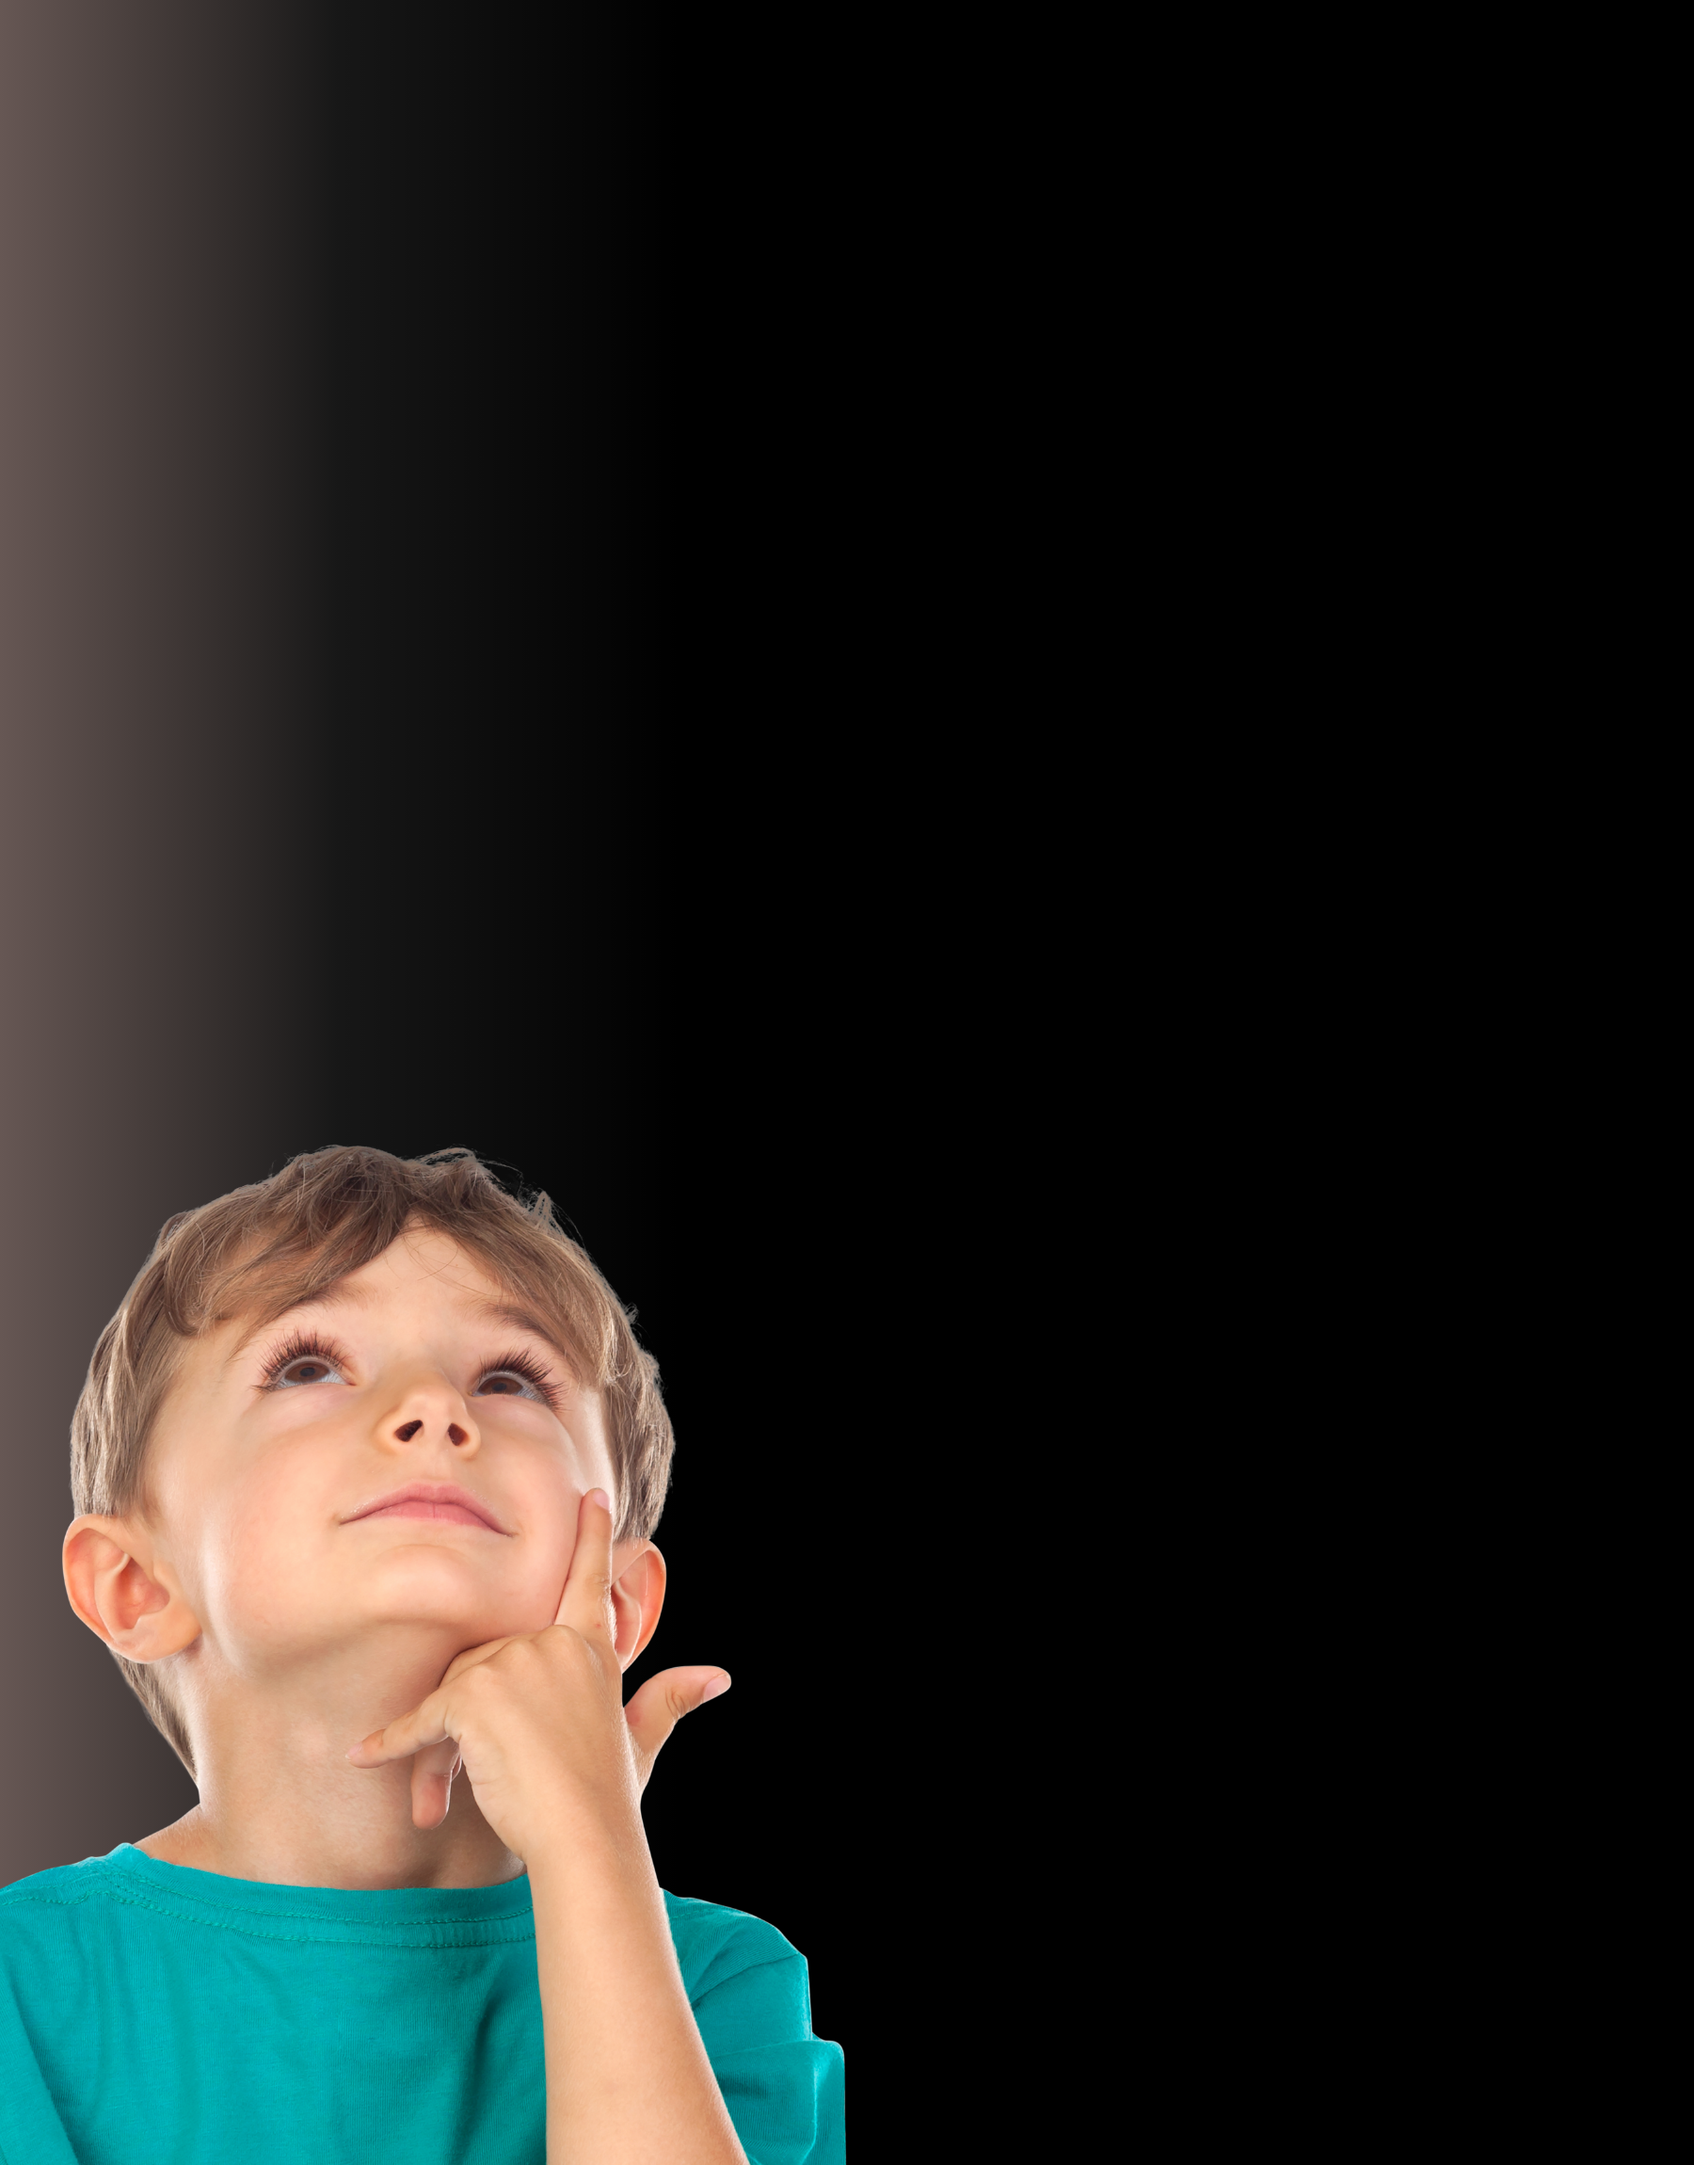
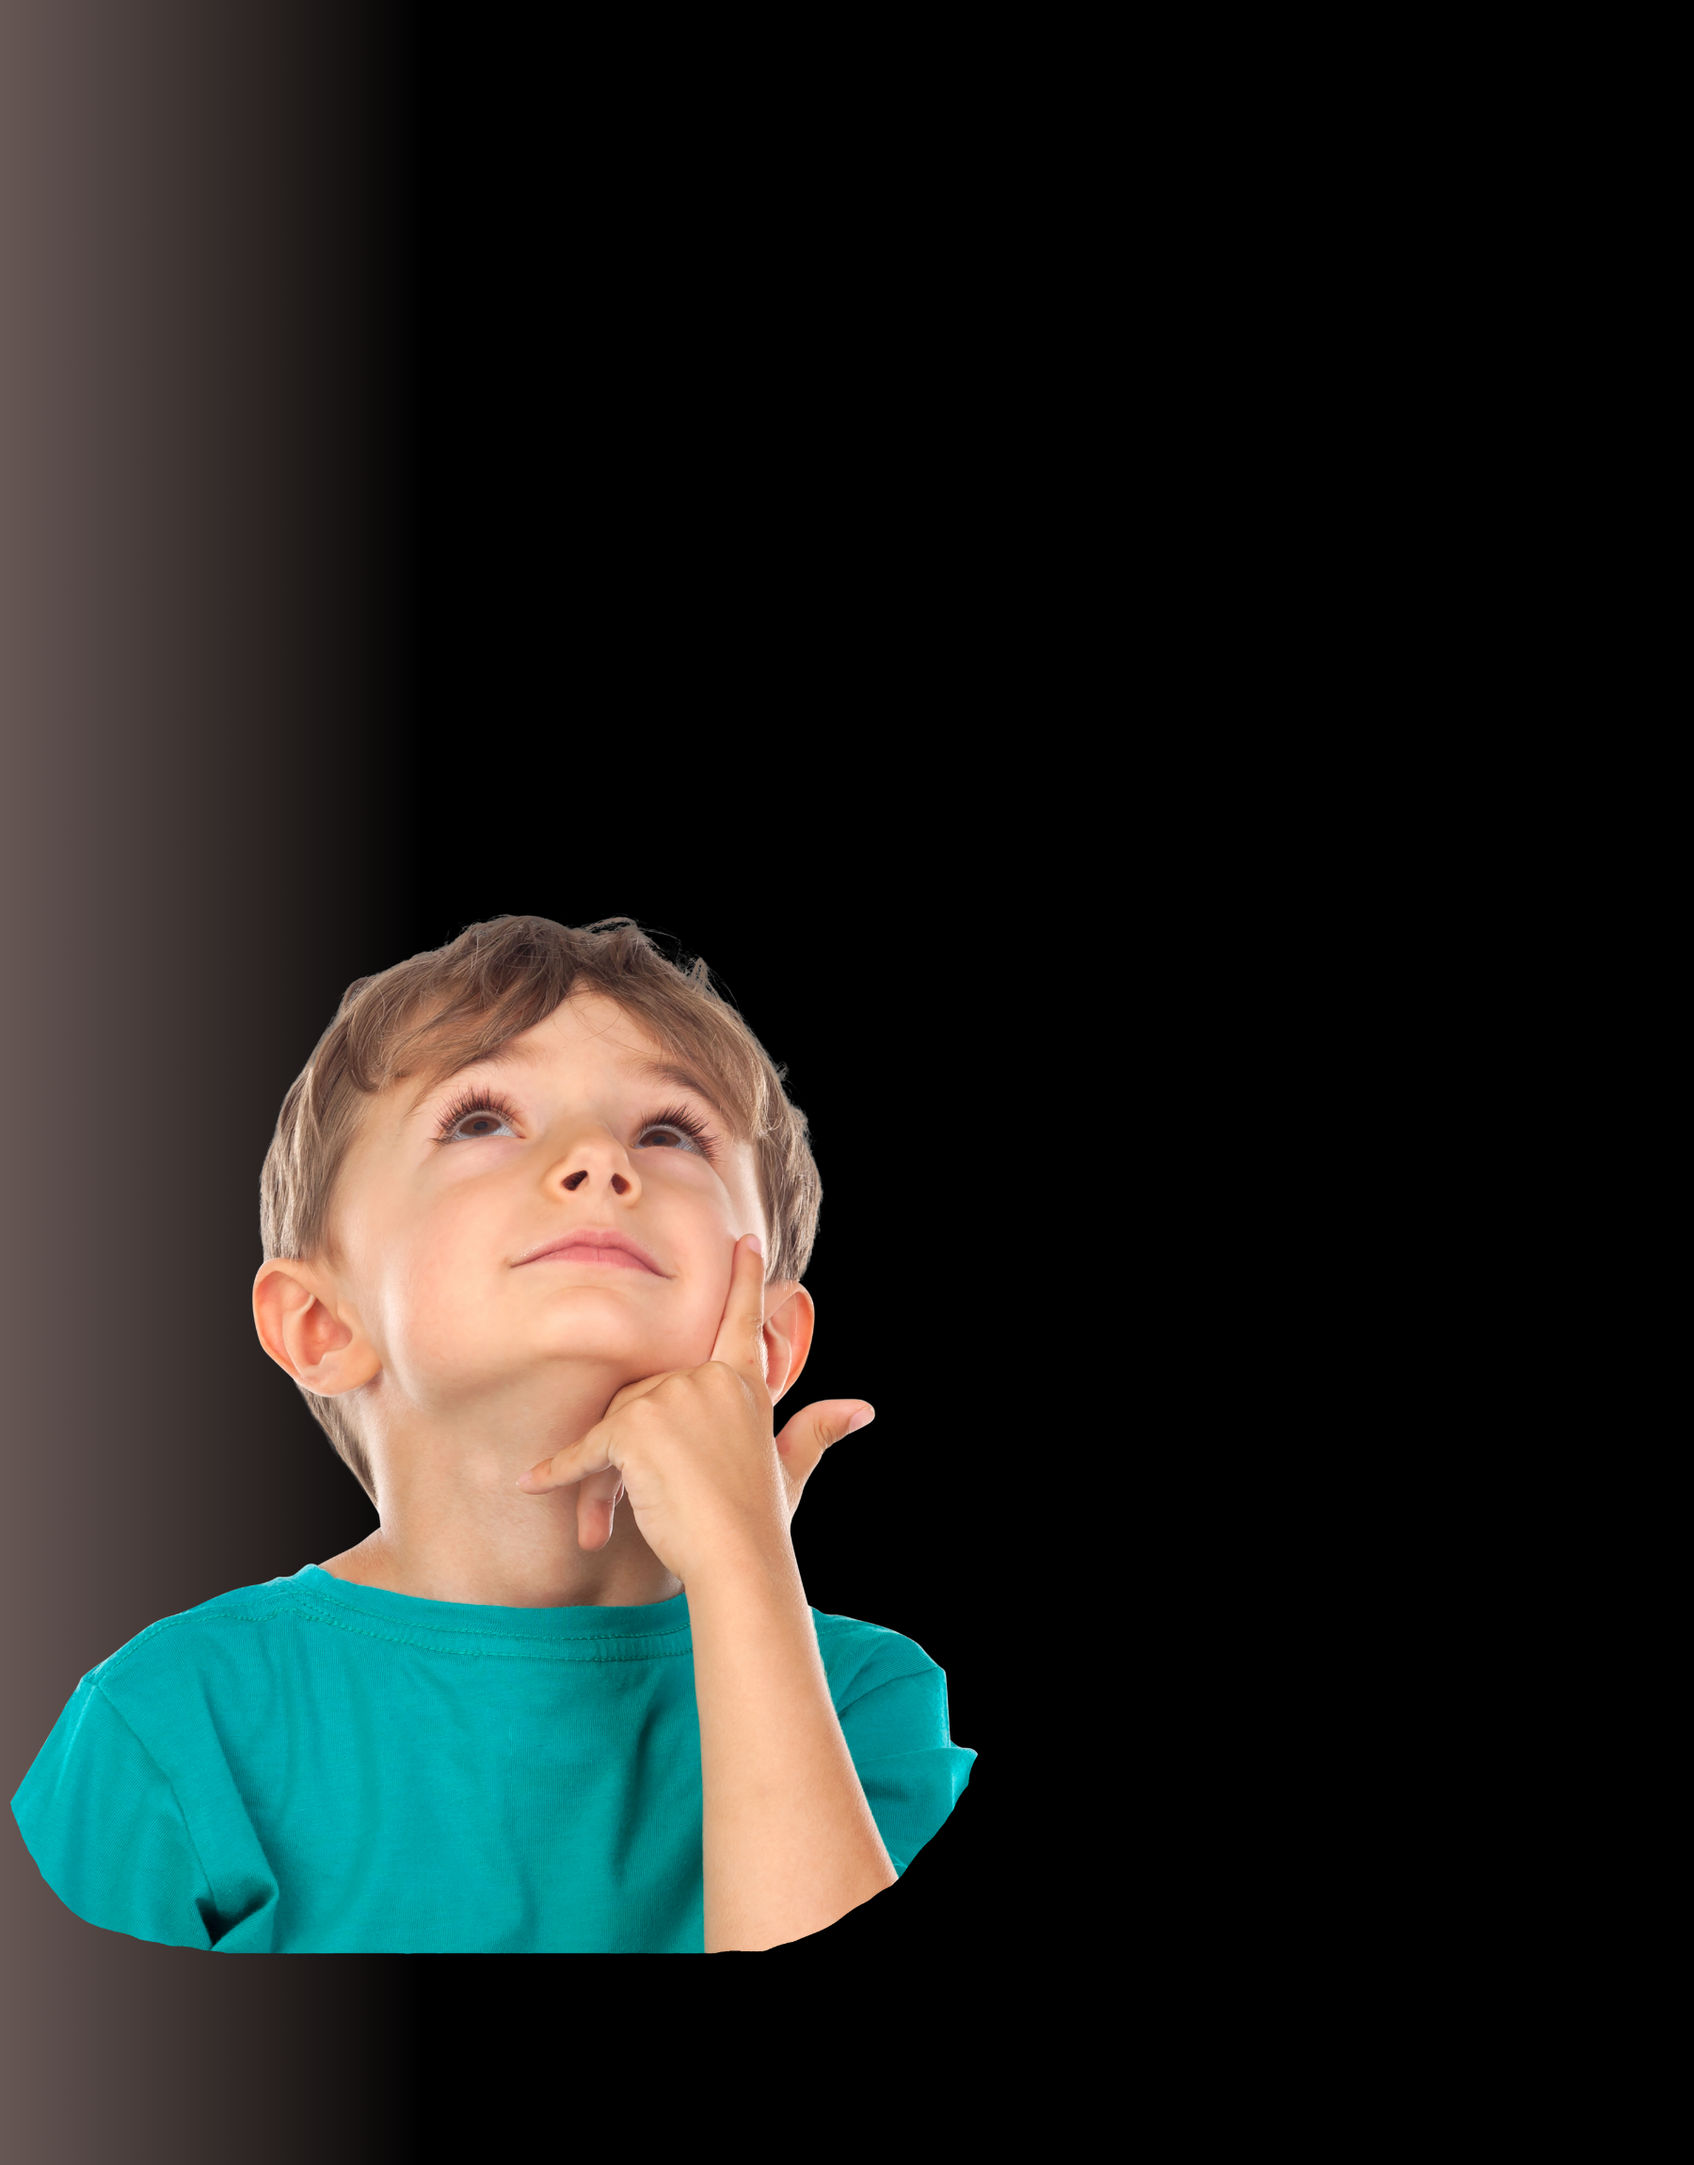
Mobile Optimization

Changed region(s): [[0.0, 0.4013, 0.5911, 1.0]]

diff --git a/Web/main.js b/Web/main.js
@@ -939,13 +939,13 @@ MainContainers:{
         height:{'Mobile':'20%','Pc':'30%'},
         zIndex:40,
         display:'flex',
-        top:{'Mobile':'42%','Pc':'19%'},
-        left:{'Mobile':'70%','Pc':'75%'},
+        top:{'Mobile':'40%','Pc':'19%'},
+        left:{'Mobile':'80%','Pc':'75%'},
          backgroundImage:"url('./Images/DescImage.jpeg')",
         backgroundRepeat:'no-repeat',
         backgroundPosition:'center',
         backgroundSize:'cover',
-        boxShadow:'10px 10px 40px rgba(0, 0, 0, 0.8)',
+        boxShadow:{'Pc':'10px 10px 40px rgba(0, 0, 0, 0.8)','Mobile':'10px 10px 40px rgba(0, 0, 0, 0)'},
         transform:{'Mobile':'translate(-50%,0%)','Pc':''},
       },
       Listener:{
@@ -1061,7 +1061,7 @@ MainContainers:{
       Text:'Especialidades',
       Style:{
          position:'absolute',
-            top:{'Mobile':'2%','Pc':'5%'},
+            top:{'Mobile':'0%','Pc':'5%'},
             left:'50%',
             transform:'translate(-50%,0%)',
             color:['black','white'],
@@ -1085,8 +1085,8 @@ MainContainers:{
         backgroundRepeat:'no-repeat',
         backgroundPosition:'center',
         backgroundSize:'contain',
-        width:{'Mobile':'10%','Pc':'10%'},
-        height:{'Mobile':'10%','Pc':'10%'},
+        width:{'Mobile':'25%','Pc':'10%'},
+        height:{'Mobile':'25%','Pc':'10%'},
         zIndex:'10',
       }
     },
